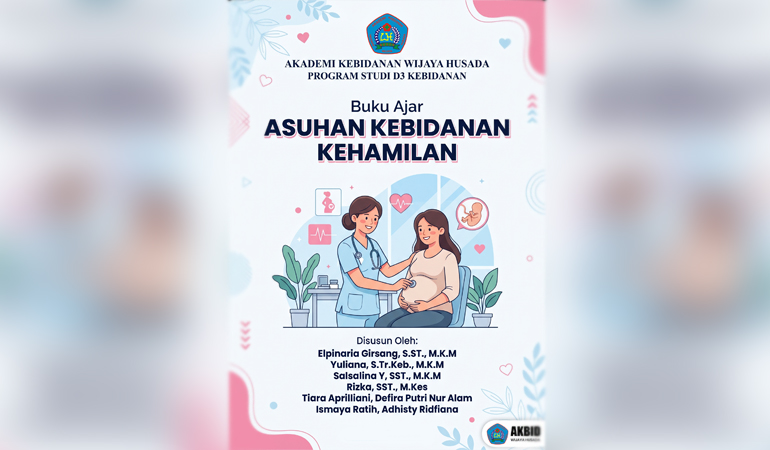
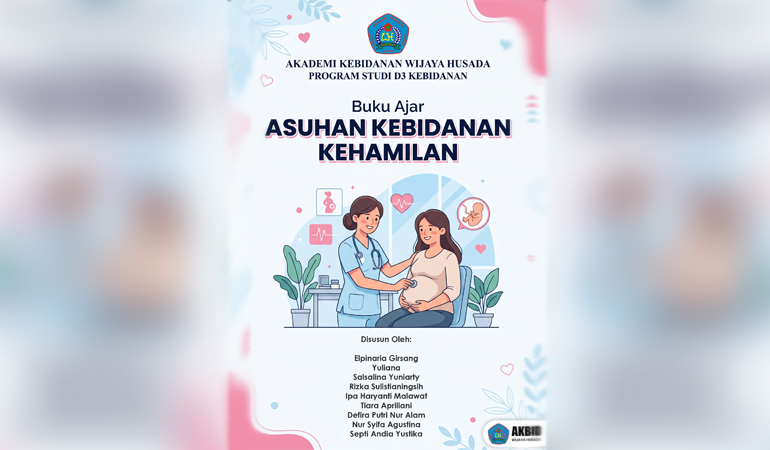
revisi nama akbid

diff --git a/buku/askeb-kehamilan.html b/buku/askeb-kehamilan.html
@@ -361,69 +361,27 @@
 
                                     <div class="postbox__list">
                                        <ol>
-                                          <li>Elpinaria Girsang,S.ST.,M.K.M</li>
-                                          <li>Yuliana,S.Tr.Keb.,M.K.M</li>
-                                          <li>Salsalina Y,SST.,M.K.M</li>
-                                          <li>Rizka,SST.,M.Kes</li>
-                                          <li>Tiara Aprilliani</li>
+                                          <li>Elpinaria Girsang</li> 
+                                          <li>Yuliana</li>
+                                          <li>Salsalina Yuniarty</li>
+                                          <li>Rizka Sulistianingsih</li>
+                                          <li>Ipa Haryanti Malawat</li>
+                                          <li>Tiara Apriliani</li>
                                           <li>Defira Putri Nur Alam</li>
-                                          <li>Ismaya Ratih</li>
-                                          <li>Adhisty Ridfiana</li>
+                                          <li>Nur Syifa Agustina</li>
+                                          <li>Septi Andia Yustika</li>
                                        </ol>
                                     </div>
                                  </div>
                               </div>
                               <div class="tab-pane fade" id="support" role="tabpanel" aria-labelledby="support-tab">
                                  <div class="product__support">
-                                    <!-- <div class="latest-comments mb-55">
-                                       <ul>
-                                          <li>
-                                             <div class="comments-box grey-bg-2">
-                                                <div class="comments-info d-flex">
-                                                   <div class="comments-avatar mr-15">
-                                                      <img src="assets/img/product/support/sup-1.jpg" alt="">
-                                                   </div>
-                                                   <div class="avatar-name">
-                                                      <h5>Jason Response</h5>
-                                                      <span class="post-meta">Author</span>
-                                                   </div>
-                                                </div>
-                                                <div class="comments-text ml-65">
-                                                   <p>Harry codswalp boot porkies up the duff morish cor blimey guvnor
-                                                      fa about blower twit Why it's your round matie.</p>
-                                                </div>
-                                             </div>
-                                          </li>
-                                          <li class="children">
-                                             <div class="comments-box grey-bg-2">
-                                                <div class="comments-info d-flex">
-                                                   <div class="comments-avatar mr-15">
-                                                      <img src="assets/img/product/support/sup-2.jpg" alt="">
-                                                   </div>
-                                                   <div class="avatar-name">
-                                                      <h5>Hilary Ouse</h5>
-                                                      <span class="post-meta">Author</span>
-                                                   </div>
-                                                </div>
-                                                <div class="comments-text ml-65">
-                                                   <p>I don't want no agro dropped a clanger do one wind.!</p>
-                                                </div>
-                                             </div>
-                                          </li>
-                                       </ul>
-                                    </div> -->
+
                                     <div class="post-comment-form wow fadeInUp" data-wow-delay=".2s">
                                        <h4 class="post-comment-title mb-25">Ulasan</h4>
                                        <form action="#">
                                           <div class="post-comment-inner">
                                              <div class="row">
-                                                <!-- <div class="col-xl-12">
-                                                   <div class="post-input d-sm-flex align-items-center mb-10">
-                                                      <textarea placeholder="Comment for the author..."></textarea>
-                                                      <button type="submit" class="m-btn m-btn-4"> <span></span>
-                                                         Post</button>
-                                                   </div>
-                                                </div> -->
                                                 <div class="col-xl-12">
                                                    <div class="post-agree d-flex align-items-center">
                                                       <!-- <input class="m-check-input" type="checkbox" id="m-agree"> -->
